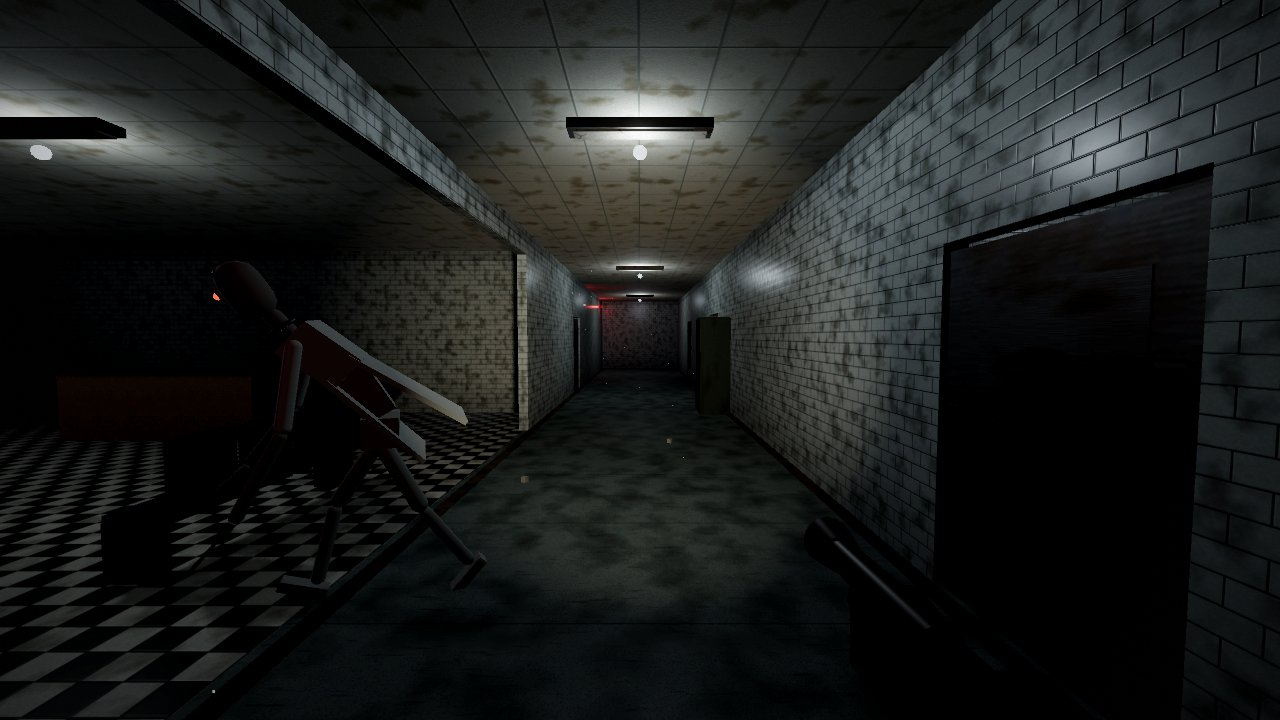
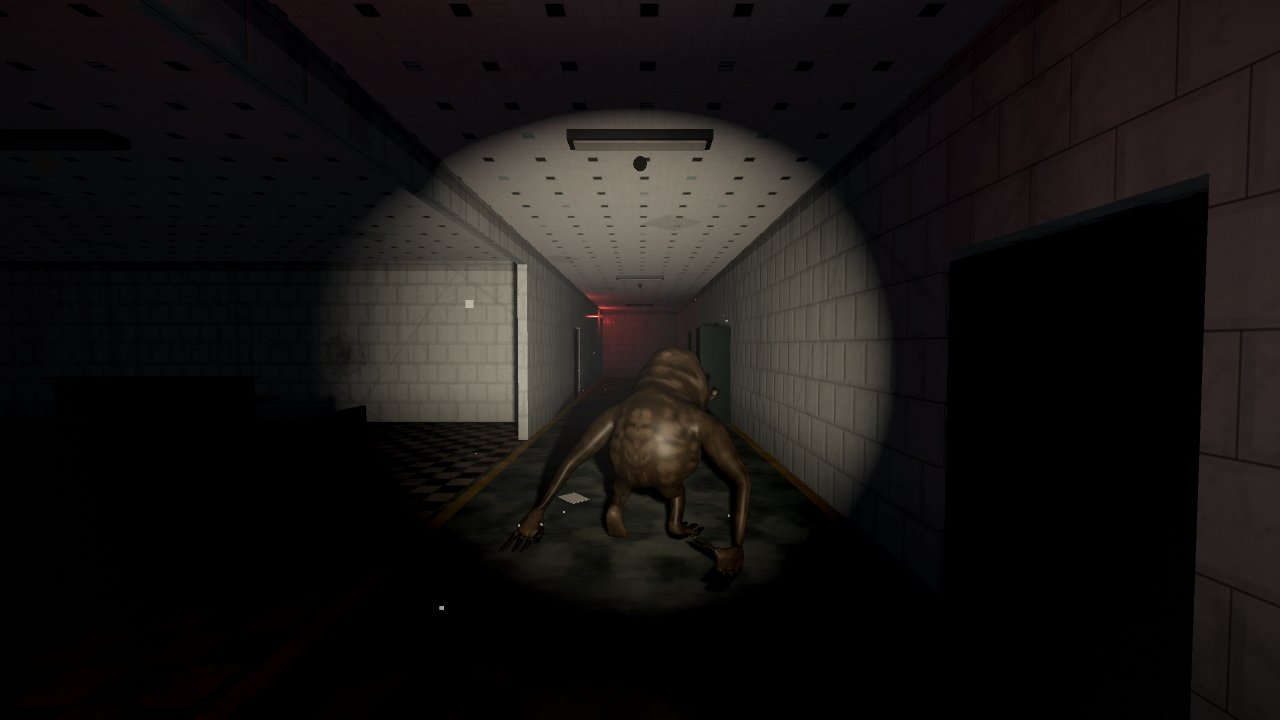
Update the README screenshots to the current game
New renders of 0.3.1: the horror menus, photo textures, real furniture
(two new shots of the dining room and the garage car) and each map's enemy.
The caption says the enemies are shown with the locally installed monster
models, which release builds do not include.

diff --git a/README.md b/README.md
@@ -21,12 +21,17 @@ supernatural threats those experiments left behind.
 |---|---|
 | ![Hallway](docs/screenshots/hallway.jpg) | ![The Watcher](docs/screenshots/watcher.jpg) |
 | ![Fuse panel](docs/screenshots/fuse_panel.jpg) | ![HUD with touch controls](docs/screenshots/touch_hud.jpg) |
+| ![The dining room, with real furniture](docs/screenshots/house_dining.jpg) | ![The covered car in the garage](docs/screenshots/house_garage.jpg) |
 | ![The Sister in the Black Ward](docs/screenshots/ward_sister.jpg) | ![Observation room](docs/screenshots/ward_observation.jpg) |
 | ![The Lineman on the platform](docs/screenshots/station_lineman.jpg) | ![A ghost train passing](docs/screenshots/station_ghost_train.jpg) |
 | ![The Headmistress in the school corridor](docs/screenshots/school_headmistress.jpg) | ![Music-room chimes](docs/screenshots/school_chimes.jpg) |
 | ![Subject Zero in the facility](docs/screenshots/facility_subject.jpg) | ![The freight lift arrives](docs/screenshots/facility_lift.jpg) |
 
-*Screenshots are real renders of the current build (desktop, Mobile renderer).*
+*Screenshots are real renders of version 0.3.1 (desktop, Mobile renderer).
+The enemies are shown with the optional imported monster models, which are
+installed locally and not part of this repository or its release builds;
+without them each enemy uses its procedural body (see
+[docs/monsters.md](docs/monsters.md)).*
 
 ## Contents
 
